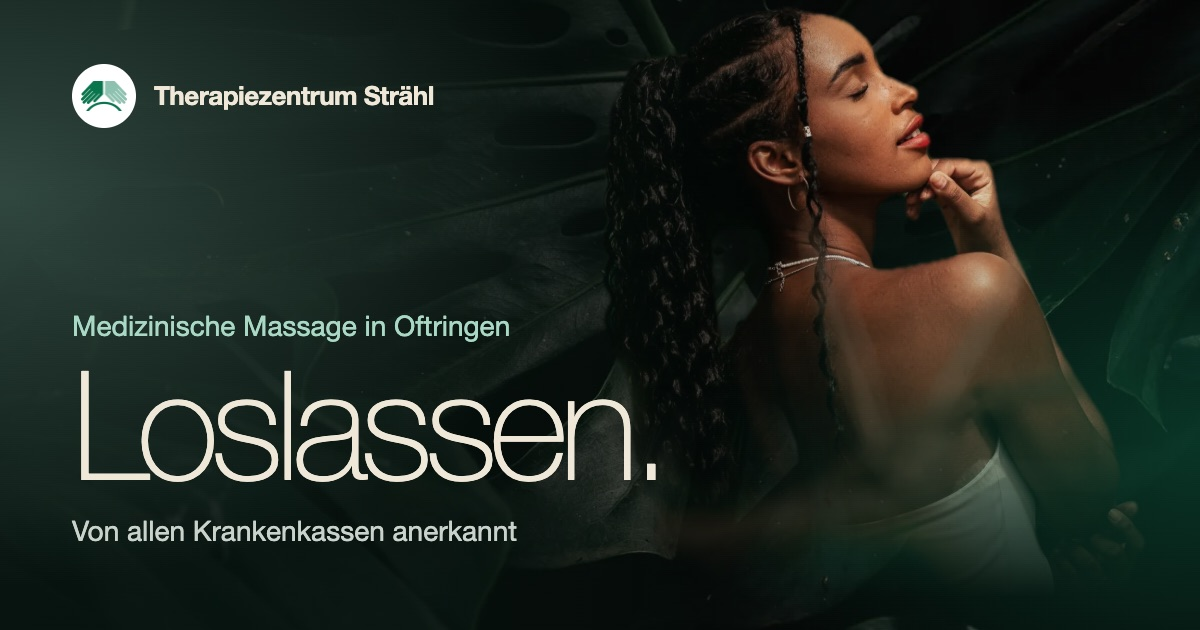
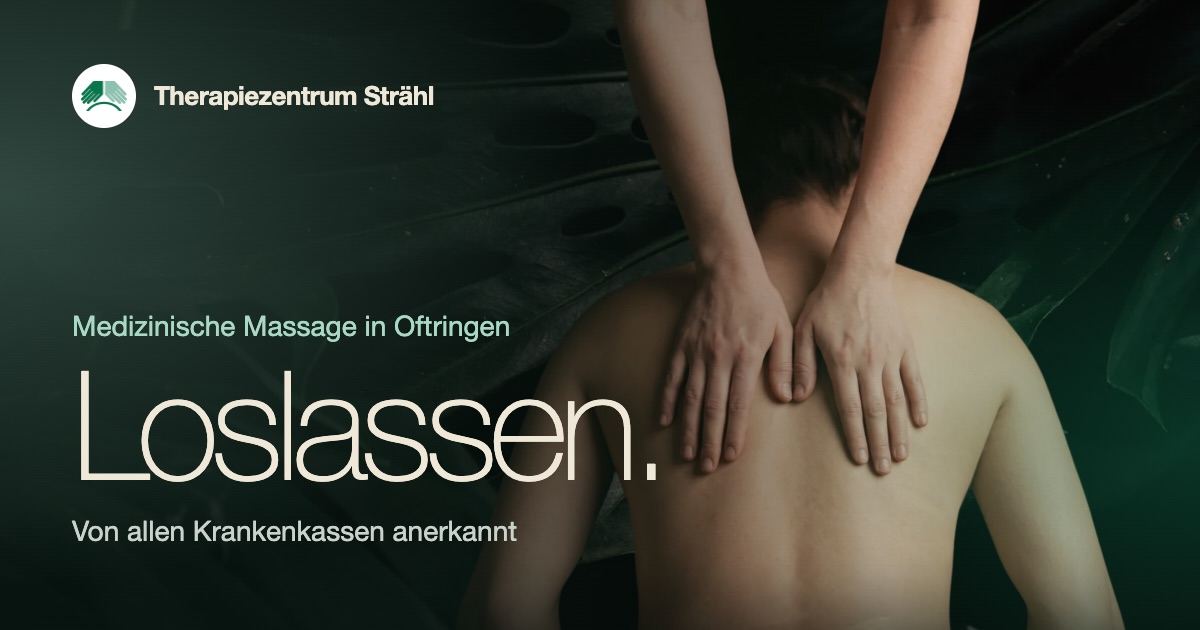
feat: added new image

diff --git a/src/styles/site.css b/src/styles/site.css
@@ -88,7 +88,8 @@ body:has(.splash) #brand img { opacity: 0; animation: brand-show 0s 5s forwards;
 .hero-media:has(.on), .th-media:has(.on) { background: none !important; /* !important: the fallback photo is set inline */ -webkit-mask-image: none; mask-image: none; } /* with WebGL the shader fades the water out itself: no mask over a layer that changes every frame */
 .hero-gl { position: absolute; inset: 0; width: 100%; height: 100%; opacity: 0; transition: opacity 1.6s ease; }
 .hero-gl.on { opacity: 1; }
-.hero-person { position: absolute; left: 50%; bottom: 24svh; height: min(70svh, 640px); width: auto; max-width: none; translate: -46% 0; animation: person-in 1.6s var(--flow) 1.5s both; }
+/* the hands come down from the top edge: the layer reaches 48px above it, so parallax and the entrance never lift the arms off it */
+.hero-person { position: absolute; left: 50%; top: -48px; height: min(80svh, 760px); width: auto; max-width: none; translate: -50% 0; animation: person-in 1.6s var(--flow) 1.5s both; }
 @keyframes person-in { from { opacity: 0; transform: translateY(40px) scale(.97); } }
 .hero::before { content: ""; position: absolute; inset: 0; z-index: -1; pointer-events: none; -webkit-mask-image: linear-gradient(#000 50%, transparent); mask-image: linear-gradient(#000 50%, transparent); background:
   linear-gradient(180deg, rgba(7, 20, 15, .55), transparent 18%, transparent 46%, rgba(7, 20, 15, .72) 74%, transparent),
@@ -99,7 +100,8 @@ body:has(.splash) #brand img { opacity: 0; animation: brand-show 0s 5s forwards;
 .nav:last-child { justify-self: end; }
 .brand { display: grid; place-items: center; }
 .brand img { width: 44px; height: 44px; padding: 9px 6px; object-fit: contain; background: #fff; border-radius: 50%; }
-.hero-txt { display: grid; gap: 36px; padding-block: 140px calc(44px + env(safe-area-inset-bottom, 0px)); }
+.brand-name { display: none; }
+.hero-txt { display: grid; gap: 28px; padding-block: 140px calc(36px + env(safe-area-inset-bottom, 0px)); }
 .hero-lead { max-width: 30ch; font-size: 1.0625rem; line-height: 1.45; color: var(--text); text-wrap: pretty; }
 .hero-title { display: grid; gap: 12px; justify-items: start; }
 .hero .kicker { color: var(--cream); opacity: .85; }
@@ -133,8 +135,12 @@ body:has(.splash) #brand img { opacity: 0; animation: brand-show 0s 5s forwards;
 .spot.off, .stage.dragging .spot, .stage.has-pick .spot { opacity: 0; pointer-events: none; }
 @media (hover: hover) { .spot:hover::before { background: var(--hurt); transform: scale(1.7); } }
 .hero-ui { display: flex; align-items: center; justify-content: space-between; gap: 12px; position: relative; z-index: 2; margin-top: -4px; }
-.hint { display: flex; align-items: center; gap: 7px; font-size: .875rem; color: var(--text); }
-.hint .ic { font-size: 18px; }
+/* the turn sign: a quiet ring beside the figure's shoulder, rocking the way the figure turns; it leaves once you touch */
+.stage { container-type: size; }
+.turn { position: absolute; z-index: 2; top: 24%; left: calc(50% + 23cqh); display: grid; place-items: center; width: 44px; height: 44px; border-radius: 50%; color: var(--cream); background: rgba(7, 20, 15, .35); box-shadow: inset 0 0 0 1px var(--line); pointer-events: none; transition: opacity .6s; }
+.turn .ic { font-size: 22px; animation: rock 3.6s ease-in-out infinite; }
+@keyframes rock { 0%, 100% { rotate: -16deg; } 50% { rotate: 16deg; } }
+.stage.dragging .turn, .stage.has-pick .turn, .stage.no3d .turn { opacity: 0; }
 .seg { position: relative; display: grid; grid-template-columns: 1fr 1fr; width: 184px; padding: 3px; border-radius: 999px; background: rgba(236, 230, 214, .08); box-shadow: inset 0 0 0 1px var(--line); -webkit-backdrop-filter: blur(12px); backdrop-filter: blur(12px); }
 .seg::before { content: ""; position: absolute; inset: 3px auto 3px 3px; width: calc(50% - 3px); border-radius: 999px; background: var(--cream); transition: transform .8s var(--spring); }
 .seg[data-view="1"]::before { transform: translateX(100%); }
@@ -184,8 +190,6 @@ body:has(.splash) #brand img { opacity: 0; animation: brand-show 0s 5s forwards;
 /* the line drawing sits on it like a pane of glass: what the hands do, drawn out */
 .card-lens { grid-area: photo; align-self: end; justify-self: end; position: relative; z-index: 2; width: min(60%, 260px); margin: 0 16px -8px 0; border-radius: 24px; overflow: hidden; background: rgba(9, 24, 18, .52); -webkit-backdrop-filter: blur(18px) saturate(140%); backdrop-filter: blur(18px) saturate(140%); box-shadow: inset 0 0 0 1px rgba(239, 232, 216, .14), 0 22px 44px -22px rgba(0, 0, 0, .9); }
 .card [data-fig] { touch-action: pan-x pan-y; --hairline-plate: #11261d; --hairline-hi: var(--ac); --hairline-edge: rgba(239, 232, 216, .86); --hairline-mid: rgba(239, 232, 216, .45); --hairline-lo: rgba(239, 232, 216, .2); --hairline-stroke: 1; }
-.num { position: absolute; top: 20px; left: 24px; z-index: 2; text-shadow: 0 1px 12px rgba(0, 0, 0, .5); font-size: 1.25rem; font-weight: 300; letter-spacing: -.03em; font-variant-numeric: tabular-nums; }
-.num small { font-size: .8125rem; font-weight: 500; opacity: .6; letter-spacing: 0; }
 .read { position: absolute; top: 12px; right: 14px; z-index: 1; font: .6875rem/1 var(--mono); opacity: .75; pointer-events: none; }
 .card-txt { grid-area: txt; display: grid; gap: 12px; padding: 22px 24px 24px; min-width: 0; position: relative; z-index: 1; }
 .card h3 { color: var(--fg); font-size: clamp(2rem, 8.6vw, 3rem); line-height: 1; letter-spacing: -.045em; font-weight: 300; }
@@ -209,9 +213,14 @@ body:has(.splash) #brand img { opacity: 0; animation: brand-show 0s 5s forwards;
 .th-stage .kicker { justify-self: stretch; }
 .th-name { position: absolute; inset: 44px 0 auto; display: grid; justify-items: center; font-size: clamp(4.6rem, 26vw, 15rem); line-height: .82; letter-spacing: -.06em; font-weight: 300; color: var(--cream); opacity: .9; pointer-events: none; }
 .th-name span:last-child { color: var(--gold); }
-.th-person { position: relative; width: min(100%, 520px); height: auto; margin-top: calc(44px + 21vw); }
+.th-fig { position: relative; width: min(100%, 520px); margin-top: calc(44px + 21vw); }
+.th-person { display: block; width: 100%; height: auto; }
+/* once the canvas draws him, it drifts him sub-pixel smooth; the <img> only holds the space (and the alt text) */
+.th-fg { position: absolute; left: -24px; top: -24px; width: calc(100% + 48px); height: calc(100% + 48px); pointer-events: none; }
+.th-fig.on .th-person { visibility: hidden; }
+.th-book { display: grid; justify-items: start; gap: 14px; }
+.th-tel { color: var(--text); font-size: .9375rem; }
 .th-info { display: grid; gap: 28px; margin-top: -40px; position: relative; }
-.th-info .th-treats { display: none; } /* phones: the six massages are right above, as cards (two classes: beats the later .blk rule) */
 .th-claim { font-size: clamp(2rem, 8.4vw, 3.25rem); line-height: 1; letter-spacing: -.045em; font-weight: 300; color: var(--cream); }
 .facts > div { display: grid; gap: 3px; padding-block: 16px; border-top: 1px solid var(--line); }
 .facts > div:last-child { border-bottom: 1px solid var(--line); }
@@ -351,7 +360,7 @@ html:has(dialog[open]) .dock { translate: -50% 150%; }
     .card-txt { animation: reveal linear both; animation-timeline: view(); animation-range: entry 8% entry 62%; }
     .th-name { animation: name-drift linear both; animation-timeline: view(); animation-range: entry 0% exit 100%; }
     @keyframes name-drift { from { transform: translateY(-50px); } to { transform: translateY(70px); } }
-    .th-person { animation: rise-in linear both; animation-timeline: view(); animation-range: entry 0% entry 70%; }
+    .th-fig { animation: rise-in linear both; animation-timeline: view(); animation-range: entry 0% entry 70%; }
     @keyframes rise-in { from { opacity: 0; transform: translateY(90px); } }
     .band img { animation: drift linear both; animation-timeline: view(); animation-range: entry 0% exit 100%; }
     @keyframes drift { from { transform: scale(1.14) translateY(-4%); } to { transform: scale(1.02) translateY(4%); } }
@@ -368,22 +377,25 @@ html:has(dialog[open]) .dock { translate: -50% 150%; }
   .card-photo { align-self: stretch; aspect-ratio: auto; height: 100%; min-height: 0; -webkit-mask-image: linear-gradient(90deg, transparent, #000 38%); mask-image: linear-gradient(90deg, transparent, #000 38%); }
   .card-photo::after { background: linear-gradient(200deg, rgba(16, 112, 80, .3), transparent 55%), linear-gradient(90deg, var(--bg), transparent 45%); }
   .card-lens { margin: 0 28px 28px 0; width: min(46%, 280px); }
-  .num { top: 36px; left: 44px; }
-  .card-txt { padding: 80px 0 44px 44px; gap: 16px; }
+  .card-txt { padding: 44px 0 44px 44px; gap: 16px; }
   .more { justify-self: start; min-width: 240px; }
   .th-grid { grid-template-columns: minmax(0, 1.1fr) minmax(0, 1fr); align-items: center; max-width: 1160px; margin-inline: auto; padding-left: var(--gl); padding-right: var(--gr); gap: 40px; }
   .th-stage .kicker { padding: 0; }
   .th-name { font-size: clamp(5rem, 11vw, 10rem); }
-  .th-person { margin-top: calc(44px + min(10vw, 9rem)); }
+  .th-fig { margin-top: calc(44px + min(10vw, 9rem)); }
   .th-info { margin-top: 0; padding: 0; }
-  .th-info .th-treats { display: grid; }
   .contact-grid { grid-template-columns: 1.1fr .9fr; gap: 64px; align-items: end; }
 }
 @media (min-width: 960px) {
   .sec { padding-block: 140px 0; }
   .band, .contact { margin-top: 140px; }
   .hero-txt { justify-items: end; padding-bottom: 72px; }
-  .hero-person { left: 40%; bottom: 0; height: min(94svh, 980px); }
+  /* desktop: the hands come down through the middle, so the logo steps aside to the left and the links go right */
+  .top { grid-template-columns: auto 1fr auto; column-gap: 32px; }
+  .top .brand { order: -1; display: flex; align-items: center; gap: 14px; }
+  .top .nav { justify-self: end; }
+  .brand-name { display: block; font-size: .9375rem; font-weight: 500; color: var(--cream); }
+  .hero-person { left: 40%; height: min(88svh, 900px); } /* the hands above the headline, the back fading out behind it */
   .hero-lead { font-size: 1.1875rem; }
   .hero-title { justify-items: end; text-align: right; }
   .explore { padding-top: 120px; }

diff --git a/src/scripts/water.js b/src/scripts/water.js
@@ -90,6 +90,36 @@ const FLOW_STEP = /* glsl */ `
 const VERT = "attribute vec2 a; varying vec2 vUv; void main(){ vUv = a * .5 + .5; gl_Position = vec4(a, 0., 1.); }";
 
 /** A section's background: water over a photograph, drifting with `setOffset`, stirred by `stir`. Null without WebGL. */
+// A cut-out on its own canvas (padded around the image), moved by whole-GPU sampling instead of by the browser's
+// pixel grid: that is what keeps a slow drift smooth in Safari. Returns { set(x, y) } in CSS pixels, or null.
+export function mountLayer(canvas, img, pad) {
+  const gl = canvas.getContext("webgl", { antialias: false, alpha: true, premultipliedAlpha: true, powerPreference: "low-power" });
+  if (!gl) return null;
+  const sh = (type, src) => { const s = gl.createShader(type); gl.shaderSource(s, src); gl.compileShader(s); return s; };
+  const p = gl.createProgram();
+  gl.attachShader(p, sh(gl.VERTEX_SHADER, VERT));
+  gl.attachShader(p, sh(gl.FRAGMENT_SHADER, "precision mediump float; varying vec2 vUv; uniform sampler2D img; uniform vec4 r; void main(){ vec2 uv = (vec2(vUv.x, 1. - vUv.y) - r.xy) / r.zw; gl_FragColor = uv == clamp(uv, 0., 1.) ? texture2D(img, uv) : vec4(0.); }"));
+  gl.bindAttribLocation(p, 0, "a"); gl.linkProgram(p); gl.useProgram(p);
+  gl.bindBuffer(gl.ARRAY_BUFFER, gl.createBuffer());
+  gl.bufferData(gl.ARRAY_BUFFER, new Float32Array([-1, -1, 3, -1, -1, 3]), gl.STATIC_DRAW);
+  gl.enableVertexAttribArray(0); gl.vertexAttribPointer(0, 2, gl.FLOAT, false, 0, 0);
+  gl.bindTexture(gl.TEXTURE_2D, gl.createTexture());
+  gl.pixelStorei(gl.UNPACK_PREMULTIPLY_ALPHA_WEBGL, true);
+  gl.texImage2D(gl.TEXTURE_2D, 0, gl.RGBA, gl.RGBA, gl.UNSIGNED_BYTE, img);
+  for (const [k, v] of [[gl.TEXTURE_MIN_FILTER, gl.LINEAR], [gl.TEXTURE_MAG_FILTER, gl.LINEAR], [gl.TEXTURE_WRAP_S, gl.CLAMP_TO_EDGE], [gl.TEXTURE_WRAP_T, gl.CLAMP_TO_EDGE]]) gl.texParameteri(gl.TEXTURE_2D, k, v);
+  const r = gl.getUniformLocation(p, "r");
+  let x = 0, y = 0;
+  const draw = () => {
+    const w = canvas.clientWidth, h = canvas.clientHeight, d = Math.min(devicePixelRatio || 1, 2);
+    if (!w) return;
+    if (canvas.width !== Math.round(w * d)) { canvas.width = Math.round(w * d); canvas.height = Math.round(h * d); gl.viewport(0, 0, canvas.width, canvas.height); }
+    gl.uniform4f(r, (pad + x) / w, (pad + y) / h, 1 - 2 * pad / w, 1 - 2 * pad / h);
+    gl.clearColor(0, 0, 0, 0); gl.clear(gl.COLOR_BUFFER_BIT); gl.drawArrays(gl.TRIANGLES, 0, 3);
+  };
+  addEventListener("resize", draw); draw();
+  return { set(nx, ny) { x = nx; y = ny; draw(); } };
+}
+
 export function mountWater(canvas, photo, { mix = 0.85, auto = false, fade = [0, .45], front = null } = {}) {
   const gl = canvas.getContext("webgl", { antialias: false, alpha: true, premultipliedAlpha: true, powerPreference: "low-power" });
   if (!gl) return null;
@@ -140,6 +170,7 @@ export function mountWater(canvas, photo, { mix = 0.85, auto = false, fade = [0,
     gl.texImage2D(gl.TEXTURE_2D, 0, gl.RGBA, gl.RGBA, gl.UNSIGNED_BYTE, front);
     gl.pixelStorei(gl.UNPACK_PREMULTIPLY_ALPHA_WEBGL, false);
     for (const [k, v] of [[gl.TEXTURE_MIN_FILTER, gl.LINEAR], [gl.TEXTURE_MAG_FILTER, gl.LINEAR], [gl.TEXTURE_WRAP_S, gl.CLAMP_TO_EDGE], [gl.TEXTURE_WRAP_T, gl.CLAMP_TO_EDGE]]) gl.texParameteri(gl.TEXTURE_2D, k, v);
+    front.style.animation = "none"; // measure where the page lays it out, not a frame of its entrance (a transform shifts the box)
     fgReady = true; measureFront(); canvas.dispatchEvent(new Event("front")); wake();
   }
   if (front) (front.complete && front.naturalWidth ? Promise.resolve() : new Promise((ok) => front.addEventListener("load", ok, { once: true }))).then(() => front.decode?.().catch(() => {})).then(loadFront);

diff --git a/src/scripts/app.js b/src/scripts/app.js
@@ -1,7 +1,7 @@
 // Page behaviour: the sheet, region picking, the view switch, the dock and the opening-hours line.
 // The 3D body is a separate chunk, loaded after first paint.
 import { HOURS, REGIONS as R, TREATMENTS as T } from "../data/content.js";
-import { mountWater } from "./water.js";
+import { mountLayer, mountWater } from "./water.js";
 
 const $ = (s, r = document) => r.querySelector(s), $$ = (s, r = document) => [...r.querySelectorAll(s)];
 const chev = '<svg class="ic" aria-hidden="true"><use href="#i-chev"/></svg>';
@@ -93,8 +93,8 @@ const load = () => import("./body3d.js")
 /* ── living water: leaves bent by water behind a section; the mouse stirs it into soft streaks, on phones an unseen hand
       glides by itself; the layers drift with it by their own depth (only their `translate`, so nothing else restyles) ── */
 const still = matchMedia("(prefers-reduced-motion: reduce)"), touch = matchMedia("(hover: none)").matches;
-function liveWater(section, canvas, photo, { fade, front = null, depth = [0, 0] } = {}) {
-  const water = photo ? mountWater(canvas, photo, { auto: touch, fade, front }) : null;
+function liveWater(section, canvas, photo, { fade, front = null, layer = null, depth = [0, 0], mix } = {}) {
+  const water = photo ? mountWater(canvas, photo, { auto: touch, fade, front, mix }) : null;
   // the cut-out is drawn by the shader once ready (sub-pixel smooth); the page keeps its <img> only for layout
   if (water && front) canvas.addEventListener("front", () => section.classList.add("gl-front"), { once: true });
   if (water && front) {
@@ -108,6 +108,7 @@ function liveWater(section, canvas, photo, { fade, front = null, depth = [0, 0] 
     if (touch || !hand) { tx = Math.sin(t * .23) * .55; ty = Math.cos(t * .17) * .4; } // no pointer: a slow breath
     vx += ((tx - x) * 60 - vx * 14) * dt; vy += ((ty - y) * 60 - vy * 14) * dt; x += vx * dt; y += vy * dt; // a soft spring
     water?.setFront(x * depth[0], y * depth[1]);
+    layer?.set(x * depth[0], y * depth[1]);
     water?.setOffset(-x * .014, y * .01);
     raf = onScreen && !still.matches ? requestAnimationFrame(frame) : 0;
   };
@@ -125,7 +126,15 @@ function liveWater(section, canvas, photo, { fade, front = null, depth = [0, 0] 
 const heroMedia = $(".hero-media"), thMedia = $(".th-media");
 // everything that drifts is drawn in the shader: no element is moved by sub-pixel steps the browser would round
 liveWater($(".hero"), $(".hero-gl"), heroMedia?.dataset.photo, { fade: [0, .45], front: $(".hero-person"), depth: [-26, -16] });
-if (thMedia) liveWater($("#therapeut"), $(".th-gl"), thMedia.dataset.photo, { fade: [.3, .68] });
+if (thMedia) {
+  // Florian on his own small canvas in front of his name, drifting against the water behind him
+  const fig = $(".th-fig"), pic = $(".th-person");
+  let layer = null;
+  liveWater($("#therapeut"), $(".th-gl"), thMedia.dataset.photo, { fade: [.46, .66], mix: .62, depth: [-14, -9], /* a long, quiet way in: the leaves rise out of the dark, not in at a line */ layer: { set: (x, y) => layer?.set(x, y) } });
+  if (fig && !still.matches) (pic.complete && pic.naturalWidth ? Promise.resolve() : new Promise((ok) => pic.addEventListener("load", ok, { once: true })))
+    .then(() => pic.decode?.().catch(() => {}))
+    .then(() => { layer = mountLayer($(".th-fg"), pic, 24); if (layer) fig.classList.add("on"); });
+}
 
 /* ── cards: the one underneath sinks back as the next slides over it ── */
 {

diff --git a/scripts/share/og.html b/scripts/share/og.html
@@ -4,7 +4,7 @@
   body { margin: 0; width: 1200px; height: 630px; overflow: hidden; background: #07140f; font-family: -apple-system, "SF Pro Display", "Helvetica Neue", sans-serif; color: #efe8d8; position: relative; }
   .leaves { position: absolute; inset: 0; background: url(../../public/assets/img/leaves.webp) center 35% / cover; filter: brightness(.55) saturate(.9); }
   .tint { position: absolute; inset: 0; background: radial-gradient(70% 90% at 0% 30%, rgba(144,192,176,.30), transparent 70%), radial-gradient(60% 80% at 100% 70%, rgba(16,112,80,.45), transparent 70%), linear-gradient(90deg, rgba(7,20,15,.92) 0%, rgba(7,20,15,.55) 48%, rgba(7,20,15,.05) 75%); }
-  .person { position: absolute; right: 40px; bottom: -120px; height: 760px; }
+  .person { position: absolute; right: 30px; top: -20px; height: 760px; }
   .brand { position: absolute; left: 72px; top: 64px; display: flex; align-items: center; gap: 18px; font-size: 26px; font-weight: 600; letter-spacing: -.02em; }
   .brand span:first-child { width: 64px; height: 64px; border-radius: 50%; background: #fff; display: grid; place-items: center; }
   .brand img { width: 46px; }
@@ -13,7 +13,7 @@
   h1 { margin: 0; font-size: 152px; line-height: .9; font-weight: 300; letter-spacing: -.055em; }
   .sub { margin: 22px 0 0; font-size: 28px; color: #c9d3cc; }
 </style></head><body>
-  <div class="leaves"></div><img class="person" src="../../public/assets/img/person.webp"><div class="tint"></div>
+  <div class="leaves"></div><img class="person" src="../../public/assets/img/hands.webp"><div class="tint"></div>
   <div class="brand"><span><img src="../../public/assets/straehl-logo.png"></span><span>Therapiezentrum Strähl</span></div>
   <div class="txt"><p class="kicker">Medizinische Massage in Oftringen</p><h1>Loslassen.</h1><p class="sub">Von allen Krankenkassen anerkannt</p></div>
 </body></html>
